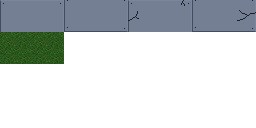
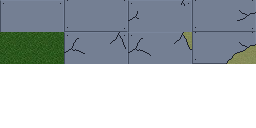
Add more tilemaps. Work on a new demo system. Currently it is disabled.

Changed region(s): [[0.25, 0.25, 1.0, 0.5]]

diff --git a/World.cpp b/World.cpp
@@ -39,7 +39,7 @@ using namespace std;
 World* worldobj;
 extern Globals* globals;
 
-World::World() {
+World::World(bool demo) {
 	// General variables, global speed etc.
 	orig_monster_speed = (float)globals->loadInt("Constants/monsterspeed")/100;
 	monster_speed = orig_monster_speed;
@@ -55,7 +55,7 @@ World::World() {
 
 	// build the player list
 	for (int i=0; i < num_players; i++) {
-		makePlayer(i);
+		makePlayer(i, demo);
 	}
 	elist = new ObjectList(MAX_OBJS);
 	ellist = new ObjectList(MAX_OBJS);
@@ -70,6 +70,10 @@ World::World() {
 	flashing = 0;	statetime = 0;
 	ui_bg = CL_Surface("Surfaces/ui_background", globals->manager);
 	tiles = CL_Surface("Backgrounds/tiles", globals->manager);
+
+	maxdelta = globals->loadInt("Constants/maxdelta");
+	mindelta = globals->loadInt("Constants/mindelta");
+	startaccellength = globals->loadInt("Constants/startaccelerationlength");
 }
 
 World::~World() {
@@ -605,7 +609,6 @@ void World::updateDisplay() {
 	}
 
 	InputState::process();
-	SDL_RenderPresent(game_renderer);
 }
 
 /*
@@ -620,9 +623,6 @@ int World::run(bool recorddemo) {
 	cltime = SDL_GetTicks();	// don't get the time directly, use this
 	oldtime = SDL_GetTicks();
 	inittime = oldtime;
-	int maxdelta = globals->loadInt("Constants/maxdelta");
-	int mindelta = globals->loadInt("Constants/mindelta");
-	int startaccellength = globals->loadInt("Constants/startaccelerationlength");
 	startaccel = 0.0f;
 	
 	levelage = timesinceready = 0;
@@ -651,41 +651,7 @@ int World::run(bool recorddemo) {
 				cltime = SDL_GetTicks();
 				delta = cltime - oldtime;
 
-				// time since ready is in real millisecs, not game millisecs
-				timesinceready += delta;
-				startaccel = 0.5f;
-				startaccel += (float)timesinceready / (startaccellength+1);
-				if (startaccel > 1.0f)	startaccel = 1.0f;
-				// a percentage
-				deltamodify = (int)(SkillLevel::current->speed * startaccel);
-
-				delta = delta*deltamodify / 100;
-
-				// if we get an excessivly large delta, don't act on it.
-				if (delta > maxdelta)	delta = 0;
-				
-				listenPauseToggle();	
-				
-				if (!num_players) state = GAMEOVER;
-				if (!num_active) state = WON;
-				
-				Grunt::calcSpeed(delta, max_active-num_active);
-				
-				// move all
-				all->toListStart();	Thing* x;
-				while ((x = all->getNext())) {
-					x->move(delta);
-				}
-				all->clearDeadStuff();
-
-				if (recorddemo)	demo.writeSnapshot(timesinceready);
-
-				// Check for collisions, and call event methods
-				makeLists();
-				findEnemyCols();
-				findPlayerCols();
-				findObstacleCols();
-
+				playing();
 				break;
 			}
 		
@@ -762,6 +728,7 @@ int World::run(bool recorddemo) {
 		// int gamelogictime = CL_System::get_time() - cltime;
 		
 		updateDisplay();
+		SDL_RenderPresent(game_renderer);
 		
 		//int graphicstime = (CL_System::get_time() - cltime) - gamelogictime;
 		
@@ -782,6 +749,43 @@ int World::run(bool recorddemo) {
 		}
 	}
 	return 0;	// never reached, see state = EXIT
+}
+
+void World::playing() {
+	// time since ready is in real millisecs, not game millisecs
+	timesinceready += delta;
+	startaccel = 0.5f;
+	startaccel += (float)timesinceready / (startaccellength+1);
+	if (startaccel > 1.0f)	startaccel = 1.0f;
+	// a percentage
+	deltamodify = (int)(SkillLevel::current->speed * startaccel);
+
+	delta = delta*deltamodify / 100;
+
+	// if we get an excessivly large delta, don't act on it.
+	if (delta > maxdelta)	delta = 0;
+
+	listenPauseToggle();
+
+	if (!num_players) state = GAMEOVER;
+	if (!num_active) state = WON;
+
+	Grunt::calcSpeed(delta, max_active-num_active);
+
+	// move all
+	all->toListStart();	Thing* x;
+	while ((x = all->getNext())) {
+		x->move(delta);
+	}
+	all->clearDeadStuff();
+
+//	if (recorddemo)	demo.writeSnapshot(timesinceready);
+
+	// Check for collisions, and call event methods
+	makeLists();
+	findEnemyCols();
+	findPlayerCols();
+	findObstacleCols();
 }
 
 /*
@@ -967,8 +971,8 @@ void World::findPlayerCols() {
  * LIST HANDLING
  ****************/
 
-void World::makePlayer(int i) {
-	Player* newplay = new Player(i);
+void World::makePlayer(int i, bool demo) {
+	Player* newplay = new Player(i, demo);
 	playerlist[i] = newplay;
 	all->addThing(newplay);
 	newplay->playing = true;

diff --git a/InputState.cpp b/InputState.cpp
@@ -19,6 +19,7 @@
 #include <stdio.h>
 #include "Application.h"
 #include "InputState.hh"
+#include "Intro.hh"
 #include "Globals.hh"
 #include "ConfigFile.hh"
 
@@ -27,6 +28,9 @@ extern Globals* globals;
 
 bool InputState::anyKey(false);
 int InputState::lastScancode(0);
+
+AbstractAxisPair::~AbstractAxisPair() {
+}
 
 InputAxisPair::InputAxisPair(int minus_xk, int plus_xk, int minus_yk, int plus_yk)
 : joy(NULL)
@@ -76,6 +80,38 @@ void InputAxisPair::set_controller(SDL_GameController *j, int xa, int ya)
 	yaxis = ya;
 }
 
+int DemoAxisPair::moveinput[DEMOMOVEINPUT][3] = {{1000, 1, 0}, {2000, 1, 1}, {500000, -1, 0}};
+int DemoAxisPair::fireinput[DEMOFIREINPUT][3] = {{900, 1, 0}, {1000, 1, 1}, {1100, 0, 1}, {1900, 1, 1}, {2000, 0, 1}, {2100, -1, 1}, {4000, -1, 0}, {500000, 1, 0}};
+
+DemoAxisPair::DemoAxisPair(bool m) : move(m) {
+}
+
+void DemoAxisPair::get_pos(int &x, int &y) {
+	if (move) {
+		for (int i = 0; i < DEMOMOVEINPUT; i++) {
+			if (Intro::demotime <= moveinput[i][0]) {
+				x = moveinput[i][1];
+				y = moveinput[i][2];
+				return;
+			}
+		}
+	}
+	else {
+		for (int i = 0; i < DEMOFIREINPUT; i++) {
+			if (Intro::demotime <= fireinput[i][0]) {
+				x = fireinput[i][1];
+				y = fireinput[i][2];
+				return;
+			}
+		}
+	}
+	x = 0;
+	y = 0;
+}
+
+AbstractButton::~AbstractButton() {
+}
+
 InputButton::InputButton(int b)
 : button(b), joy(NULL)
 {
@@ -99,7 +135,12 @@ void InputButton::set_controller(SDL_GameController *j, int b)
 	joy_button = b;
 }
 
+int DemoButton::is_pressed() {
+	return 0;
+}
+
 InputState* InputState::playercontrols[2] = { NULL, NULL };
+InputState* InputState::democontrols = NULL;
 std::string* InputState::keygroups = NULL;
 int InputState::numkeygroups = 0;
 
@@ -110,6 +151,7 @@ void InputState::initControls(Config conf) {
 		playercontrols[i] = new InputState(i, conf.movegroup[i],
 					conf.aimgroup[i], conf.usekey[i]);
 	}
+	democontrols = new InputState();
 }
 
 void InputState::readGroups() {
@@ -144,7 +186,6 @@ InputState::InputState(int _playernumber, string movegroup,
 	move = fire = NULL;
 	use = NULL;
 	joystick = NULL;
-	keyboardnumber = 0;
 
 	if (globals->verbosity > 0)
 		cout << "Assigning keys to Input groups" << std::endl;
@@ -165,9 +206,9 @@ InputState::InputState(int _playernumber, string movegroup,
 		}
 		if (found == playernumber) {
 			joystick = SDL_GameControllerOpen(JoystickIndex);
-			move->set_controller(joystick, SDL_CONTROLLER_AXIS_LEFTX, SDL_CONTROLLER_AXIS_LEFTY);
-			fire->set_controller(joystick, SDL_CONTROLLER_AXIS_RIGHTX, SDL_CONTROLLER_AXIS_RIGHTY);
-			use->set_controller(joystick, SDL_CONTROLLER_AXIS_TRIGGERRIGHT);
+			dynamic_cast<InputAxisPair*>(move)->set_controller(joystick, SDL_CONTROLLER_AXIS_LEFTX, SDL_CONTROLLER_AXIS_LEFTY);
+			dynamic_cast<InputAxisPair*>(fire)->set_controller(joystick, SDL_CONTROLLER_AXIS_RIGHTX, SDL_CONTROLLER_AXIS_RIGHTY);
+			dynamic_cast<InputButton*>(use)->set_controller(joystick, SDL_CONTROLLER_AXIS_TRIGGERRIGHT);
 			break;
 		}
 		else
@@ -176,6 +217,13 @@ InputState::InputState(int _playernumber, string movegroup,
 
 	if (globals->verbosity > 0)
 		cout << "All assigned." << endl;
+}
+
+InputState::InputState() {
+	playernumber = 0;
+	move = new DemoAxisPair(true);
+	fire = new DemoAxisPair(false);
+	use = new DemoButton();
 }
 
 void InputState::setUseKey(int k) {

diff --git a/Intro.cpp b/Intro.cpp
@@ -17,6 +17,7 @@
 */
 
 #include <SDL.h>
+#include "Bullet.hh"
 #include "Intro.hh"
 #include "Thing.hh"
 #include "Sprite.hh" 
@@ -25,6 +26,7 @@
 #include "Display.hh"
 #include "Demo.hh"
 #include "InputState.hh"
+#include "World.hh"
 #include <numbers>
 #include <cmath>
 
@@ -232,6 +234,7 @@ Intro::Intro() {
 			}
 		}
 	}
+	demoworld = NULL;
 }
 
 Intro::~Intro() {
@@ -292,11 +295,29 @@ bool Intro::show() {
 			globals->smallfont->print_center(XWINSIZE>>9, (YWINSIZE>>8) - 25, "Press Space to start");
 
 		} else {
+			if (demoworld == NULL) {
+				demoworld = new World(true);
+				worldobj = demoworld;
+				demoworld->load_level(0);
+			}
+			if (demoworld->state == World::DELAY)
+			{
+				demoworld->load_level(0);
+				demoworld->state = World::PLAYING;
+				demoworld->lives = globals->loadInt("PlayerSpecs/startlives");
+				demotime = 0;
+				demoworld->levelage = 0;
+			}
 			if (!(m.type == Menu::OPTIONS || m.type == Menu::CONTROLS))
 				demoBg();
 
 			Menu::menustatus ret = m.run(delta);
-			if (ret == Menu::STARTGAME)	return true;
+			if (ret == Menu::STARTGAME) {
+				delete demoworld;
+				demoworld = NULL;
+				worldobj = NULL;
+				return true;
+			}
 			else if (ret == Menu::EXIT)	return false;
 		}
 
@@ -323,9 +344,18 @@ void Intro::demoBg() {
 	}
 
 	// slomo value of zero pauses demoplayback
-	if (slomoval)
+	if (slomoval) {
 		demotime += delta/slomoval;
-		
+		demoworld->delta = delta/slomoval;
+		demoworld->levelage += delta;
+	} else {
+		demotime += delta;
+		demoworld->delta = delta;
+		demoworld->levelage += delta;
+	}
+
+/*	demoworld->playing();
+	demoworld->updateDisplay();*/
 	bool more = demo->play(demotime);
 	if (!more) demo->restart(demotime);
 

diff --git a/Player.cpp b/Player.cpp
@@ -30,12 +30,14 @@ using namespace std;
 extern World* worldobj;
 extern Globals* globals;
 
-Player::Player(int _playernumber) : Thing((Globals::sprindex)_playernumber) {
+Player::Player(int _playernumber, bool demo) : Thing((Globals::sprindex)_playernumber) {
 	playernumber = _playernumber;
 	arm = globals->spr[Globals::MONKEYARMONE + _playernumber];
 
-	//in = new InputState(playernumber);
-	in = InputState::playercontrols[playernumber];
+	if (demo)
+		in = InputState::democontrols;
+	else
+		in = InputState::playercontrols[playernumber];
 	scoreboard = new ScoreBoard(this);
 	stats = new PlayerStats(this);
 	
